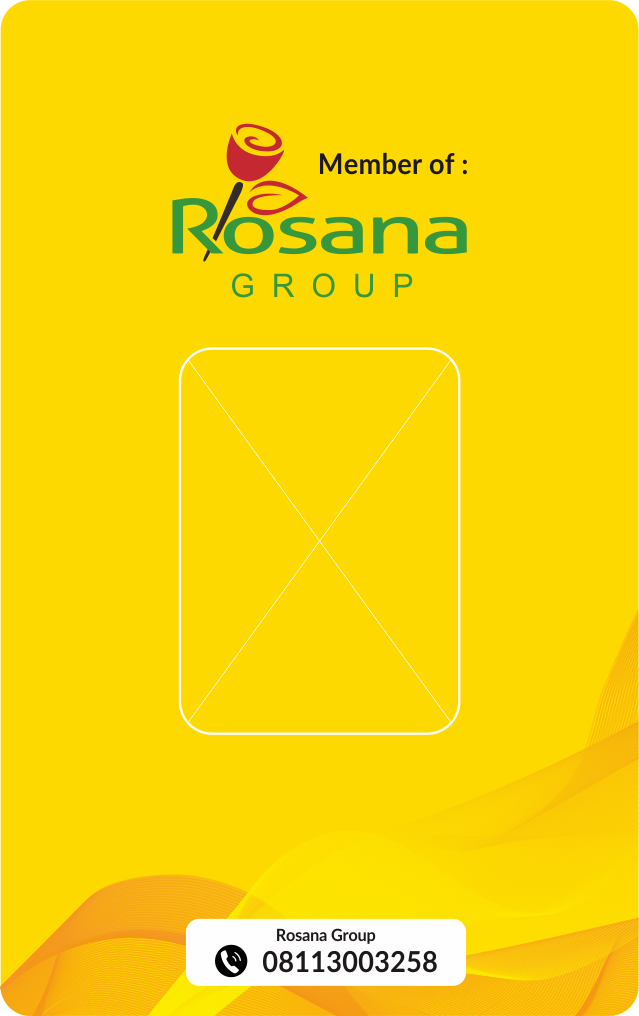
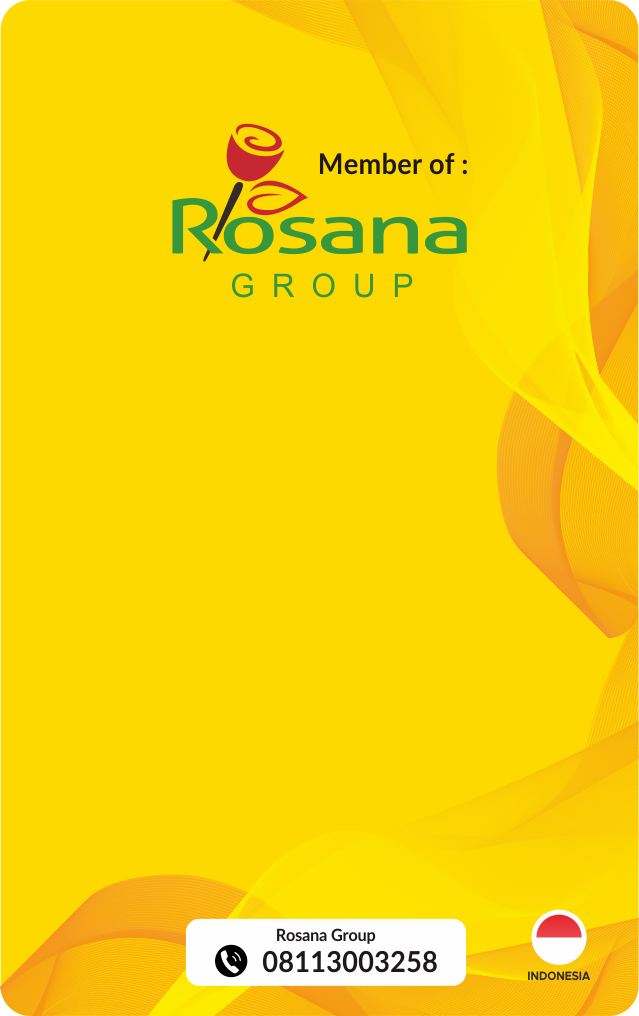
update idcard

diff --git a/application/views/jamaah/cetak_label_koper.php b/application/views/jamaah/cetak_label_koper.php
@@ -14,7 +14,7 @@
             </div>
             <div id="html-content-holder" style="width: 639px; height: 1016px;">
                 <img src="<?php echo base_url() . 'assets/images/id_card_template/labelkoper/depan.png'; ?>">
-                <img style="border-radius: 20px; width: 280px; height: 385px; margin-top: -977px; margin-left: 180px;" src="<?php echo base_url() . 'assets/images/' . $jamaah['jamaah_img']; ?>">
+                <img class="img-fluid" style="border-radius: 20px; width: 280px; object-fit: cover; height: 390px; margin-top: -977px; margin-left: 180px;" src="<?php echo base_url() . 'assets/images/' . $jamaah['jamaah_img']; ?>">
                 <table style="position:relative; color:black; width: 524px; height: 200px; margin-top: -330px; font-size: 2.5rem; text-align: center; font-weight: bold; line-height: 2.4rem;" align="center">
                     <tr>
                         <td>

diff --git a/application/views/jamaah/cetak.php b/application/views/jamaah/cetak.php
@@ -11,7 +11,7 @@
             </div>
             <div id="html-content-holder" style="width: 639px; height: 1016px;">
                 <img src="<?php echo base_url() . 'assets/images/id_card_template/depan.png'; ?>">
-                <img style="border-radius: 20px; width: 280px; height: 385px; margin-top: -977px; margin-left: 180px;" src="<?php echo base_url() . 'assets/images/' . $jamaah['jamaah_img']; ?>">
+                <img class="img-fluid" style="border-radius: 20px; width: 280px; object-fit: cover; height: 390px; margin-top: -977px; margin-left: 180px;" src="<?php echo base_url() . 'assets/images/' . $jamaah['jamaah_img']; ?>">
                 <table style="position:relative; color:black; width: 524px; height: 200px; margin-top: -290px; font-size: 2.5rem; text-align: center; font-weight: bold; line-height: 3rem;" align="center">
                     <tr>
                         <td>
